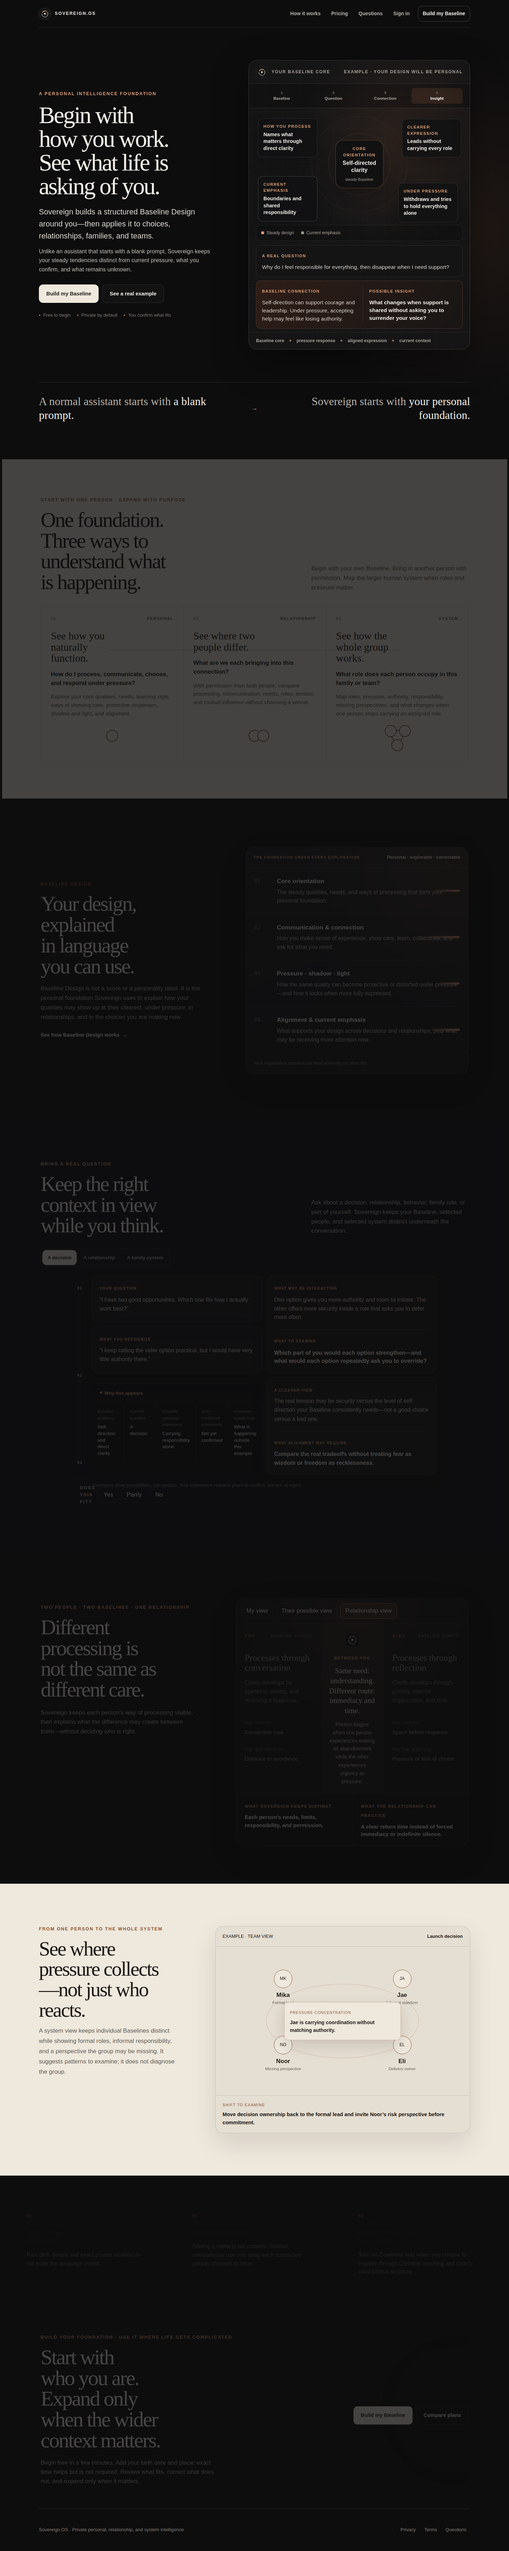
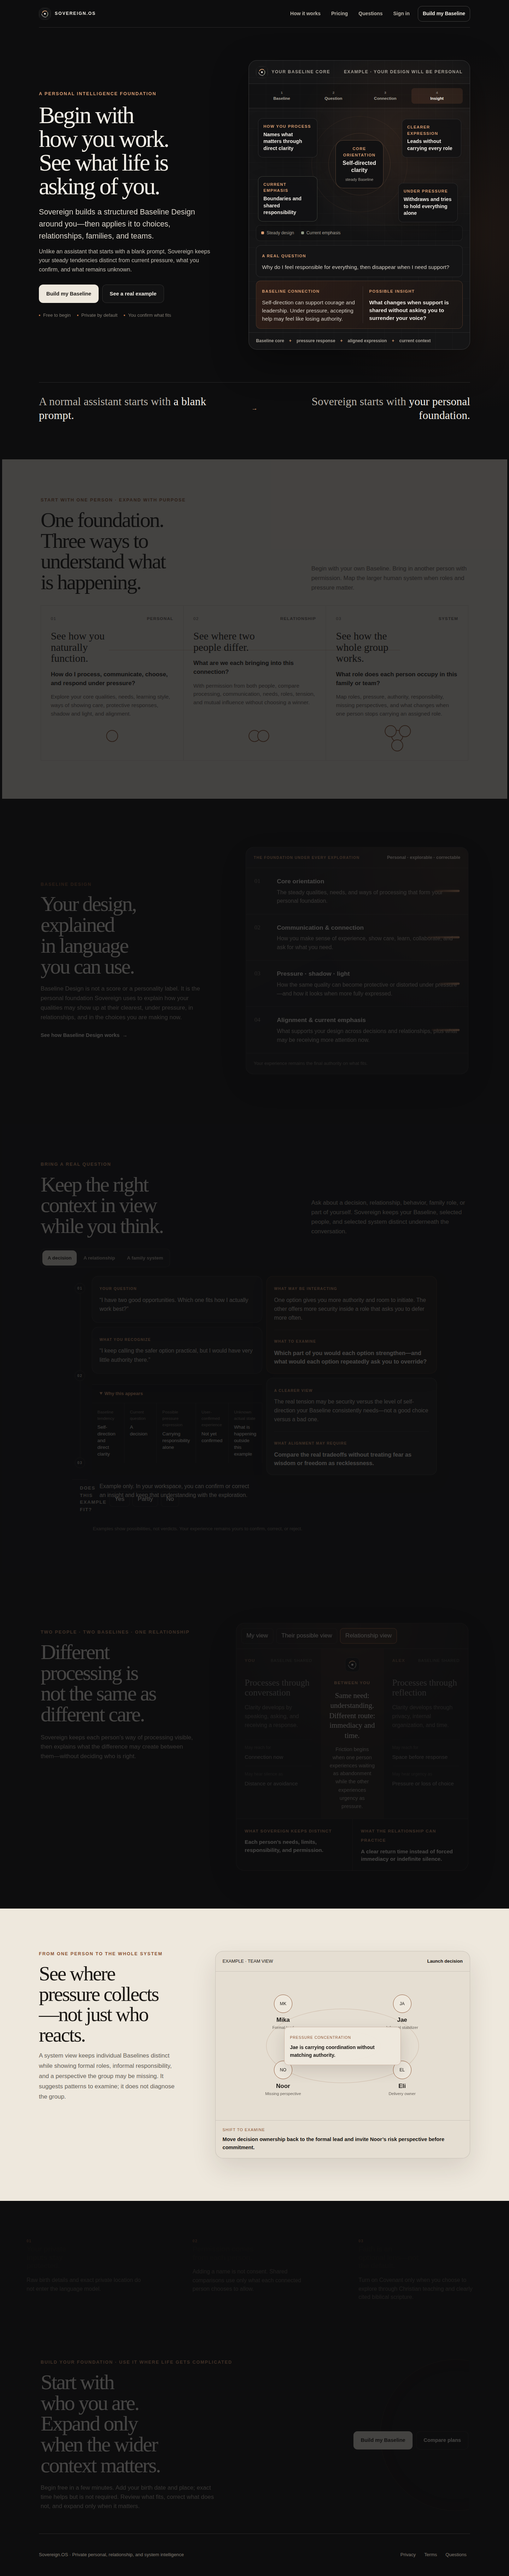
Complete landing production honesty review

diff --git a/apps/web/src/PublicLanding.tsx b/apps/web/src/PublicLanding.tsx
@@ -66,6 +66,7 @@ const baselineDimensions = [
 export function PublicLanding() {
   const [activeExample, setActiveExample] = useState(0);
   const [perspective, setPerspective] = useState<'mine' | 'theirs' | 'between'>('between');
+  const [exampleFit, setExampleFit] = useState<'yes' | 'partly' | 'no' | null>(null);
   const example = examples[activeExample]!;
 
   function moveExample(event: KeyboardEvent<HTMLButtonElement>, index: number) {
@@ -239,7 +240,17 @@ export function PublicLanding() {
               <div><dt>Unknown actual state</dt><dd>What is happening outside this example</dd></div>
             </dl>
           </details>
-          <div className="example-confirm" aria-label="Example correction controls"><span>Does this fit?</span><button type="button">Yes</button><button type="button">Partly</button><button type="button">No</button></div>
+          <div className="example-confirm" aria-label="Example correction controls">
+            <span>Does this example fit?</span>
+            {(['yes', 'partly', 'no'] as const).map((fit) => (
+              <button type="button" key={fit} aria-pressed={exampleFit === fit} onClick={() => setExampleFit(fit)}>{fit === 'yes' ? 'Yes' : fit === 'partly' ? 'Partly' : 'No'}</button>
+            ))}
+          </div>
+          <p className="example-continuity" role="status" aria-live="polite">
+            {exampleFit
+              ? `Example marked ${exampleFit === 'yes' ? 'as fitting' : exampleFit === 'partly' ? 'as partly fitting' : 'as not fitting'}. In your workspace, corrections are saved with the exploration and remain available to future context.`
+              : 'Example only. In your workspace, you can confirm or correct an insight and keep that understanding with the exploration.'}
+          </p>
           <footer>Examples show possibilities, not verdicts. Your experience remains yours to confirm, correct, or reject.</footer>
         </div>
       </section>

diff --git a/apps/web/src/brand-landing-refinement.css b/apps/web/src/brand-landing-refinement.css
@@ -353,6 +353,8 @@
 .example-confirm { display:flex; align-items:center; gap:8px; padding:14px 22px; border-top:1px solid var(--public-line); }
 .example-confirm span { margin-right:auto; color:var(--public-muted); font-size:.78rem; }
 .example-confirm button,.perspective-switch button { min-height:44px; padding:8px 14px; border:1px solid var(--public-line); border-radius:9px; background:transparent; color:var(--public-ink); cursor:pointer; }
+.example-confirm button[aria-pressed="true"] { border-color:var(--public-clay); background:rgba(199,121,75,.15); }
+.example-continuity { margin:0; padding:0 22px 17px; color:var(--public-muted); font-size:.76rem; line-height:1.5; }
 
 .perspective-switch { grid-column:1/-1; display:flex; gap:8px; padding:14px; border-bottom:1px solid var(--public-line); }
 .perspective-switch button.active { border-color:var(--public-clay); background:rgba(199,121,75,.12); }

diff --git a/apps/web/src/public-site.test.ts b/apps/web/src/public-site.test.ts
@@ -23,6 +23,7 @@ describe('Sovereign.OS public experience', () => {
     expect(landing).toContain('Begin with how you work. See what life is asking of you.');
     expect(landing).toContain('Why this appears');
     expect(landing).toContain('PRESSURE CONCENTRATION');
+    expect(landing).toContain('corrections are saved with the exploration');
     expect(landing).toContain('Sovereign.OS turns your Baseline Design into private, explorable intelligence for choices, relationships, families, and teams.');
     expect(landing).toContain('Start with how you process, communicate, connect, decide, and respond under pressure.');
     expect(landing).toContain('Build my Baseline');

diff --git a/docs/landing-experience-audit.md b/docs/landing-experience-audit.md
@@ -25,3 +25,22 @@ Responsive rules stack the content safely, but the diagram becomes tall and labe
 ## Known limitations
 
 Marketing interactions use representative static data and do not call private intelligence APIs. Confirmation controls demonstrate the product pattern but do not persist for anonymous visitors. Visual regression evidence depends on the local browser capture environment.
+
+## Final production review
+
+### Product-honesty verification
+
+| Landing representation | Implemented product basis | Assessment |
+| --- | --- | --- |
+| Baseline-first exploration | The authenticated workspace builds and uses a Baseline before presenting personal context. | Supported. |
+| Correction and continuity | Thread corrections are persisted by the authenticated API, returned in correction history, and included in later conversation context. The public interaction is explicitly labeled as an example and does not claim anonymous persistence. | Supported with an explicit marketing-demo boundary. |
+| Insight provenance | Structured responses expose reduced basis, confidence, safety mode, and saved fit without raw birth inputs or exact private locations. | Supported; the landing uses representative language rather than claiming identical UI. |
+| Relationship comparison | People context is permission-scoped and supports two-person comparison. The public perspective switch illustrates balanced views; it is not presented as a literal workspace control. | Supported as a representative interaction. |
+| System intelligence | Authenticated Systems can be created, populated through active consent, selected as exploration context, and analyzed for roles, authority, pressure, and responsibility. | Supported; the public map is representative static data. |
+| Current emphasis | Today exposes a reduced possible-current-amplification value and explicitly avoids treating it as observed fact. | Supported with appropriately conditional copy. |
+
+### Merge recommendation
+
+**Recommend merge after normal code review. Production-readiness score: 91/100.** The page now communicates the Baseline-first distinction, separates interpretation from confirmed and unknown state, shows a coherent self-to-relationship-to-system progression, and explains the setup action. The remaining nine points are operational rather than landing-code blockers: production browser comparison, authenticated end-to-end smoke coverage in the target account, and deployment/version verification still require a production-capable environment.
+
+No copy reviewed here claims diagnosis, motive access, compatibility scoring, deterministic behavior, anonymous correction persistence, or guaranteed outcomes. The screenshot set should be regenerated from the final commit before deployment so the evidence matches the correction-state refinement.
